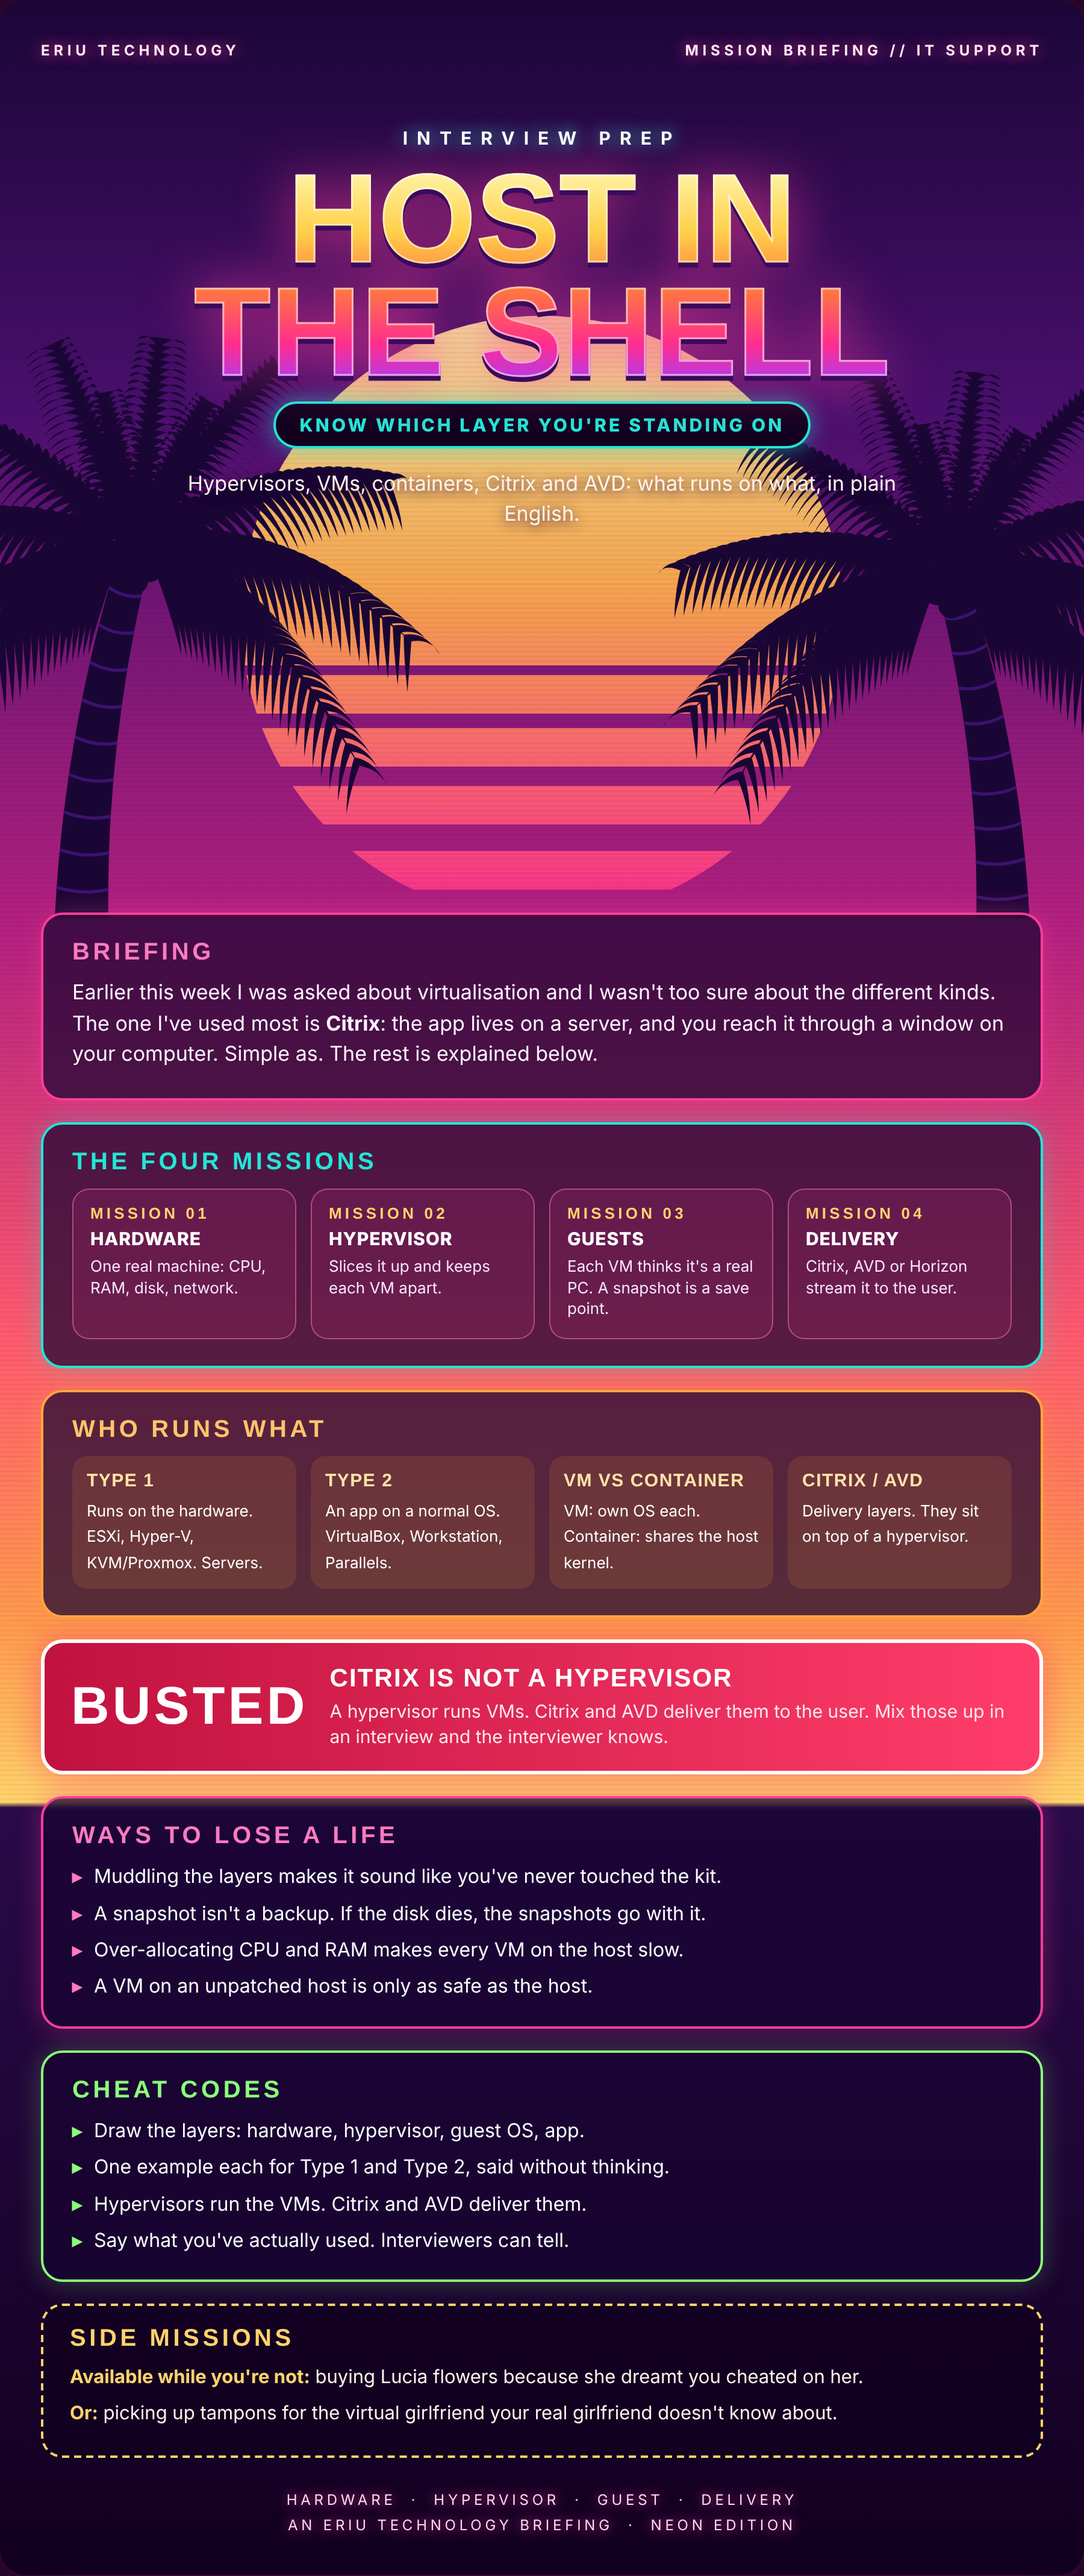
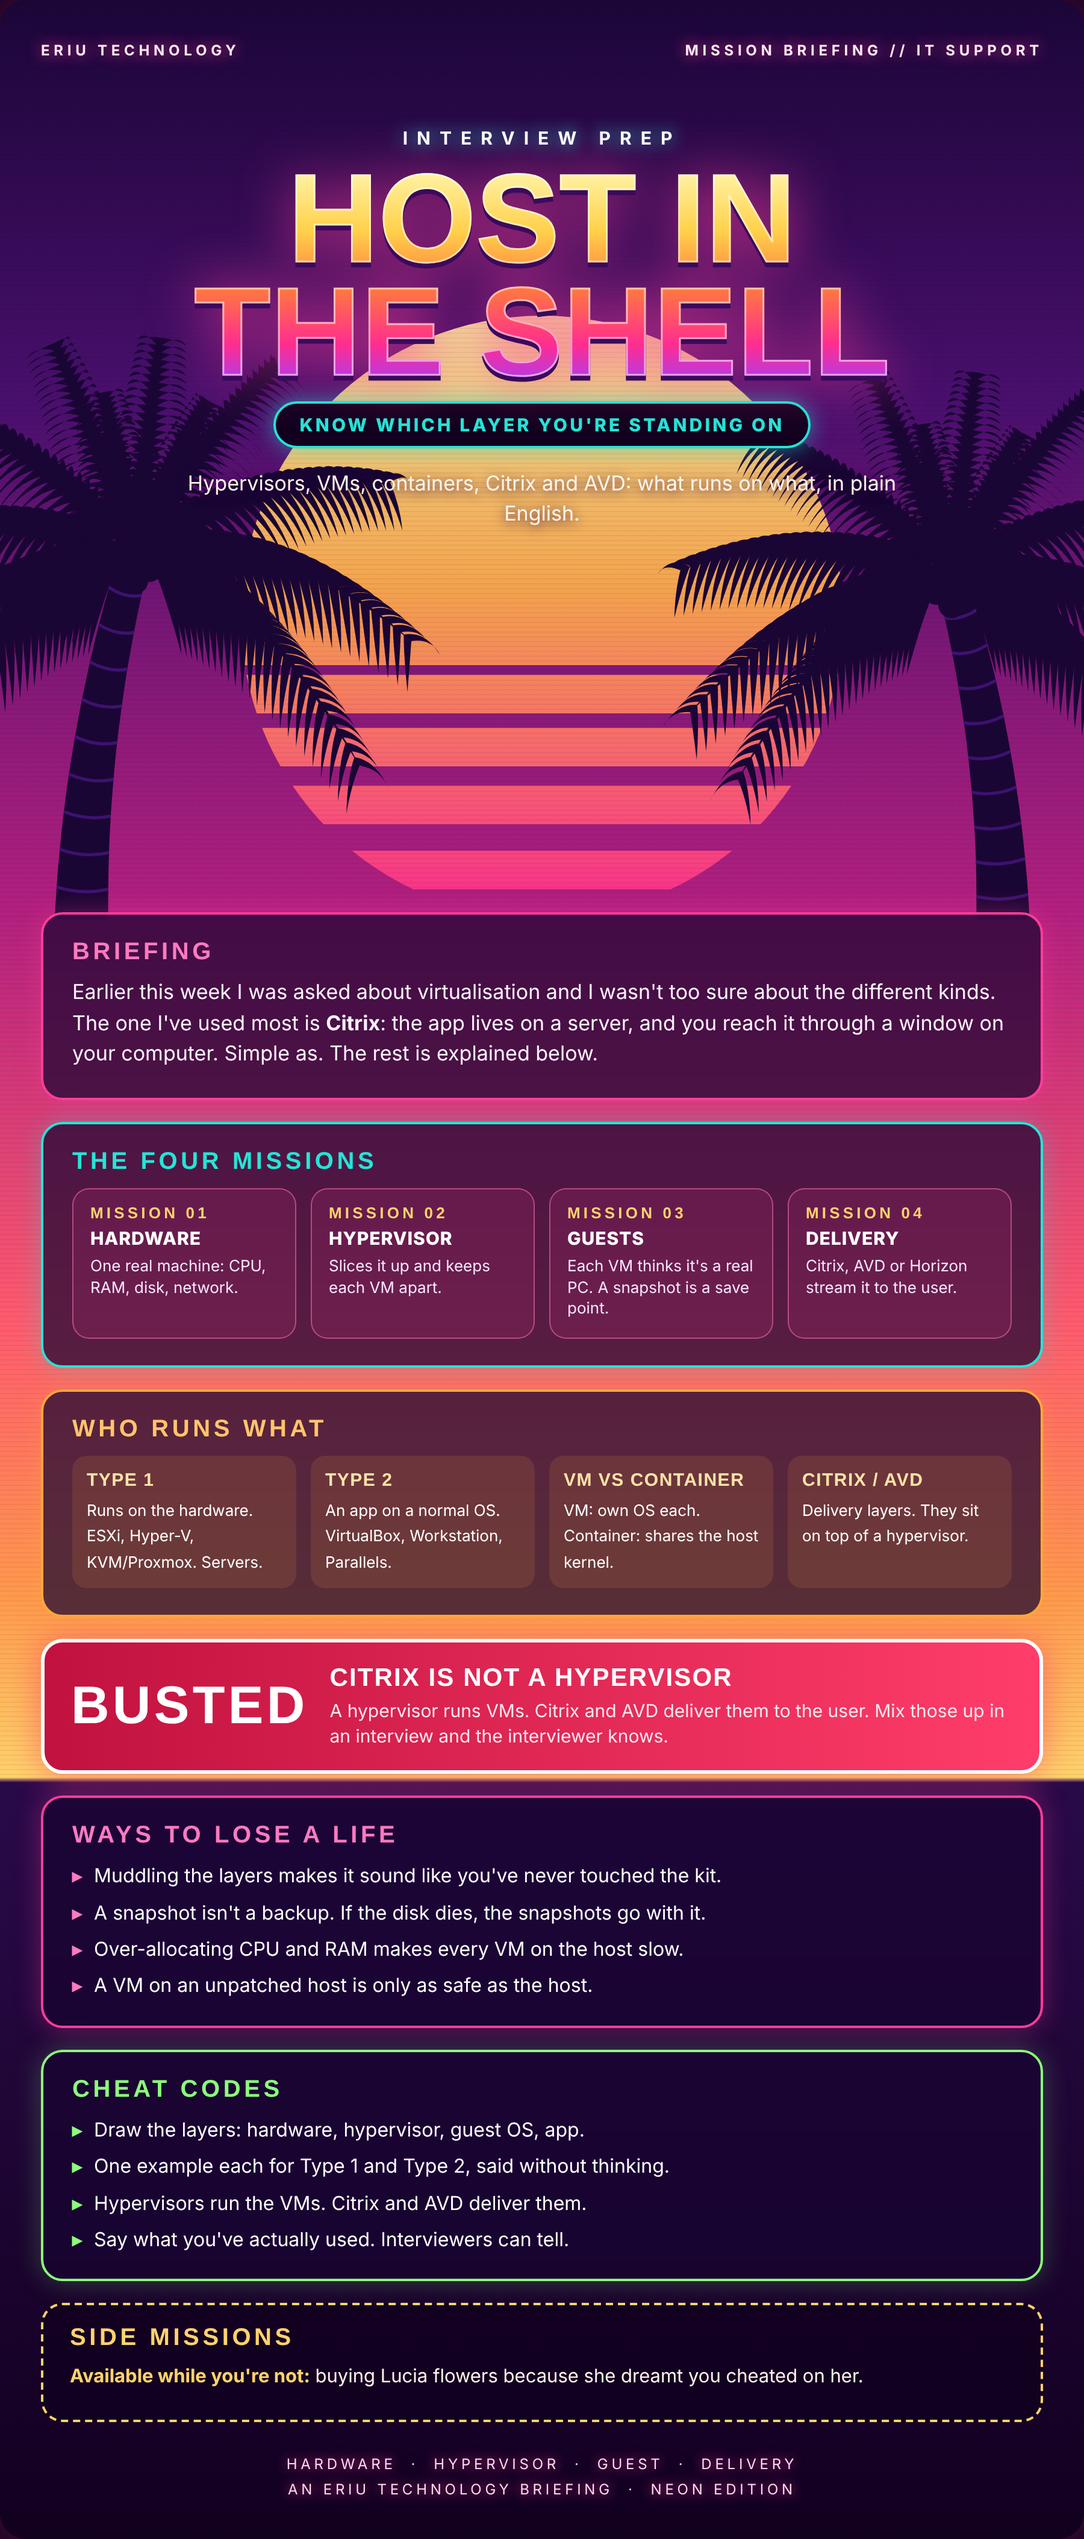
Host in the Shell: drop second side-mission line
Claude-Session: https://claude.ai/code/session_018wdzkh42C7qvukPMnjsqHv

Changed region(s): [[0.0, 0.0622, 1.0, 0.9637]]

diff --git a/host-in-the-shell/poster.html b/host-in-the-shell/poster.html
@@ -78,8 +78,7 @@ li{font-size:16px;line-height:1.4;display:flex;gap:10px}li::before{content:"\25B
 <li>Hypervisors run the VMs. Citrix and AVD deliver them.</li>
 <li>Say what you've actually used. Interviewers can tell.</li></ul></section>
 <section class="side"><div class="k">Side missions</div>
-<p><b>Available while you're not:</b> buying Lucia flowers because she dreamt you cheated on her.</p>
-<p><b>Or:</b> picking up tampons for the virtual girlfriend your real girlfriend doesn't know about.</p></section>
+<p><b>Available while you're not:</b> buying Lucia flowers because she dreamt you cheated on her.</p></section>
 </div>
 <div class="credits">Hardware &nbsp;·&nbsp; Hypervisor &nbsp;·&nbsp; Guest &nbsp;·&nbsp; Delivery<br>An Eriu Technology briefing &nbsp;·&nbsp; neon edition</div>
 </div></div></body></html>

diff --git a/tools/poster_host_in_the_shell.html b/tools/poster_host_in_the_shell.html
@@ -78,8 +78,7 @@ li{font-size:16px;line-height:1.4;display:flex;gap:10px}li::before{content:"\25B
 <li>Hypervisors run the VMs. Citrix and AVD deliver them.</li>
 <li>Say what you've actually used. Interviewers can tell.</li></ul></section>
 <section class="side"><div class="k">Side missions</div>
-<p><b>Available while you're not:</b> buying Lucia flowers because she dreamt you cheated on her.</p>
-<p><b>Or:</b> picking up tampons for the virtual girlfriend your real girlfriend doesn't know about.</p></section>
+<p><b>Available while you're not:</b> buying Lucia flowers because she dreamt you cheated on her.</p></section>
 </div>
 <div class="credits">Hardware &nbsp;·&nbsp; Hypervisor &nbsp;·&nbsp; Guest &nbsp;·&nbsp; Delivery<br>An Eriu Technology briefing &nbsp;·&nbsp; neon edition</div>
 </div></div></body></html>
